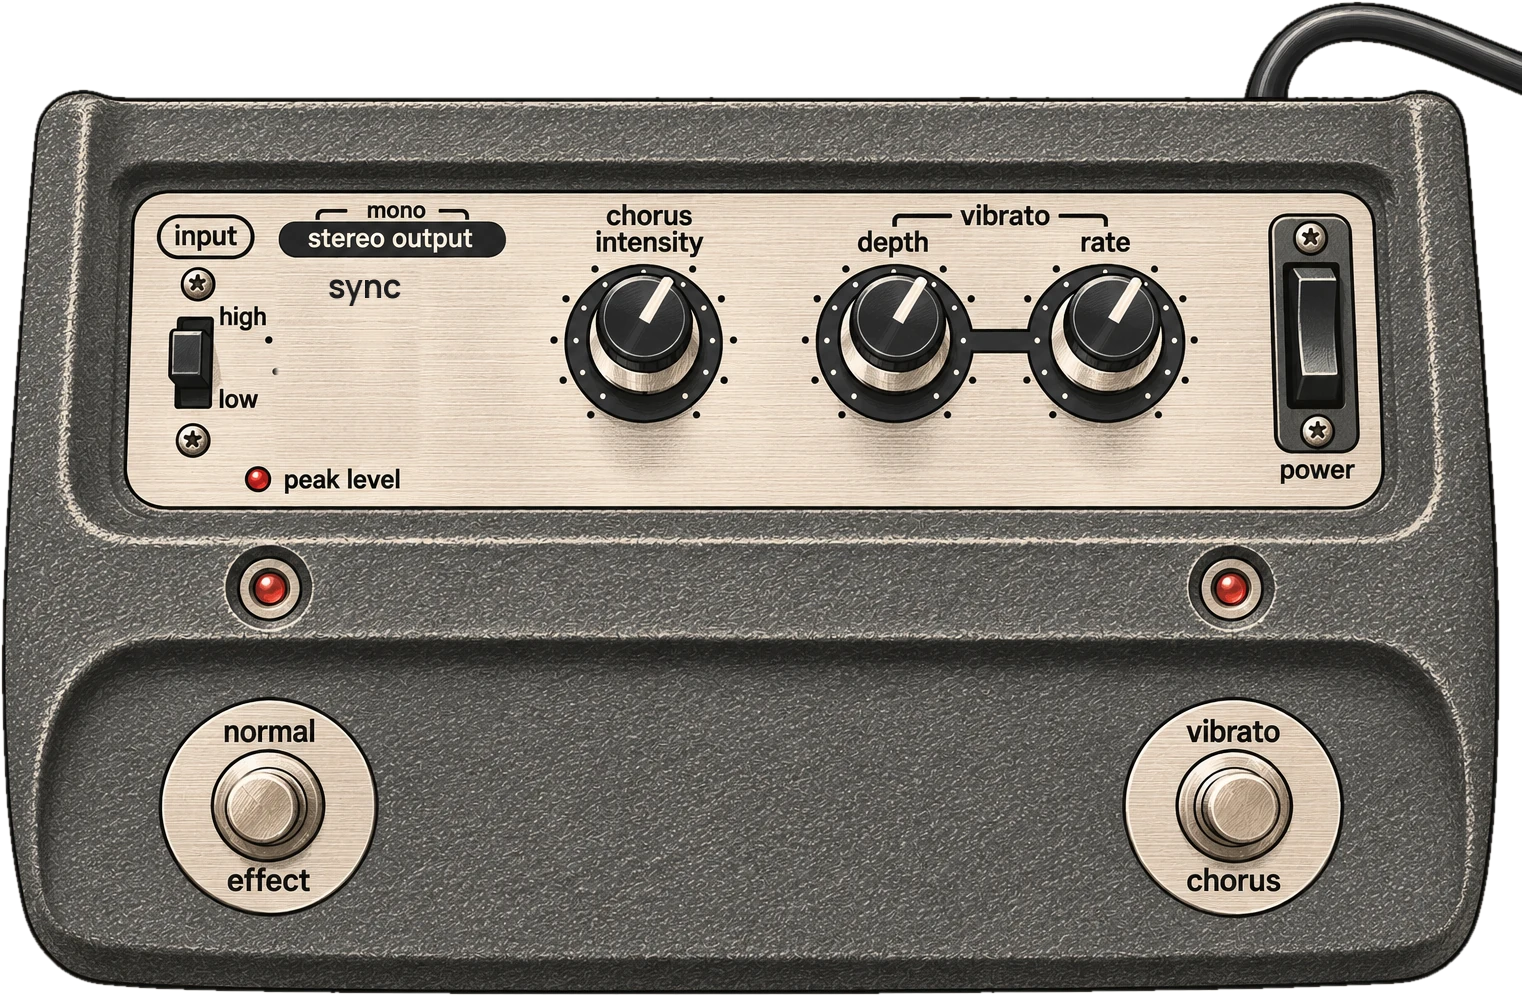
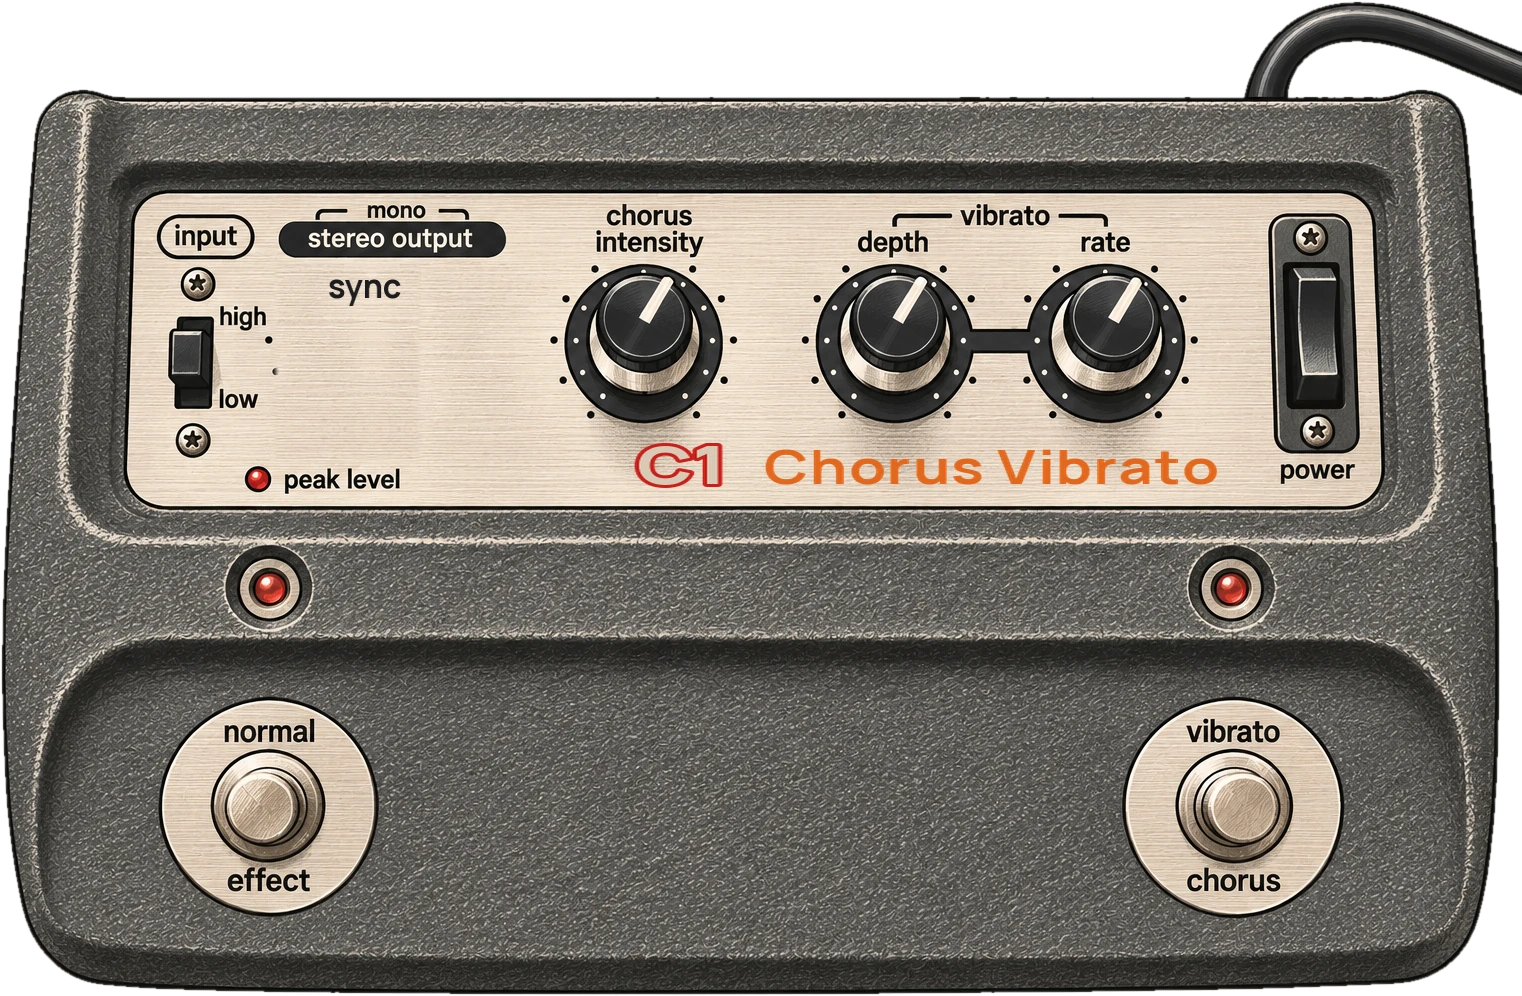
Letter the rack's names on four effect looks
BBD Delay, Gray Compressor, C1 Chorus/Vibrato and Roto Speaker had no
name on their picture. Each now carries the rack's model name in the
manner of the original's lettering, not a copy of it: a broad red name
leaning along the black field's edge, a heavy brand word with the type
name under it, red outlined capitals with the rest in orange under the
knobs, and brass script on the wood.

Changed region(s): [[0.4014, 0.4357, 0.8029, 0.498]]

diff --git a/editor/src/js/device-renders.js b/editor/src/js/device-renders.js
@@ -1064,6 +1064,7 @@ window.DEVICE_RENDERS = {
     47
    ]
   },
+  "dials": {},
   "height": 419,
   "img": {
    "height": 419,
@@ -1100,7 +1101,9 @@ window.DEVICE_RENDERS = {
     248.5
    ]
   },
+  "sliders": {},
   "spin": 30,
+  "sprites": [],
   "switch": [
    113.1,
    336.8,

diff --git a/editor/tools/render-devices/prepare_image.py b/editor/tools/render-devices/prepare_image.py
@@ -85,6 +85,46 @@ def label(im, text, centre, size, fill='#eadcb6', squeeze=0.78, weight='ExtraBol
     im.alpha_composite(t_im, (round(centre[0] - t_im.width / 2), round(centre[1] - t_im.height / 2)))
 
 
+def text_layer(text, size, fill, weight='ExtraBold', squeeze=1.0, slant=0.0, tracking=0):
+    # a line of Manrope on its own transparent layer: condensed by `squeeze`,
+    # leaned forward by `slant` (shear, as a fraction of its height), its
+    # letters spaced `tracking` px apart
+    f = ImageFont.truetype(os.path.join(HERE, '..', '..', 'src', 'fonts', 'Manrope.ttf'), size)
+    f.set_variation_by_name(weight)
+    widths = [f.getlength(c) + tracking for c in text]
+    l, t, r, b = f.getbbox(text)
+    pad = round(abs(slant) * (b - t)) + 8
+    t_im = Image.new('RGBA', (round(sum(widths)) + pad * 2, b - t + 8), (0, 0, 0, 0))
+    d, x = ImageDraw.Draw(t_im), pad
+    for c, w in zip(text, widths):
+        d.text((x, 4 - t), c, font=f, fill=fill)
+        x += w
+    if slant:
+        t_im = t_im.transform(t_im.size, Image.AFFINE, (1, slant, -slant * t_im.height, 0, 1, 0), Image.BICUBIC)
+    return t_im.resize((round(t_im.width * squeeze), t_im.height), Image.LANCZOS)
+
+
+def place(im, layer, centre, angle=0.0, shadow=0):
+    # composite a layer centred on `centre`, turned `angle` degrees (counter-clockwise),
+    # with a soft drop shadow if asked
+    if angle:
+        layer = layer.rotate(angle, resample=Image.BICUBIC, expand=True)
+    x, y = round(centre[0] - layer.width / 2), round(centre[1] - layer.height / 2)
+    if shadow:
+        sh = Image.new('RGBA', layer.size, (0, 0, 0, 0))
+        sh.putalpha(layer.getchannel('A').point(lambda a: a * 0.6).filter(ImageFilter.GaussianBlur(shadow)))
+        im.alpha_composite(sh, (x + shadow, y + shadow))
+    im.alpha_composite(layer, (x, y))
+
+
+def fit_label(im, text, centre, size, width, fill, weight='ExtraBold', squeeze=0.86):
+    # label(), squeezed further if need be so it is no wider than `width`
+    f = ImageFont.truetype(os.path.join(HERE, '..', '..', 'src', 'fonts', 'Manrope.ttf'), size)
+    f.set_variation_by_name(weight)
+    l, t, r, b = f.getbbox(text)
+    label(im, text, centre, size, fill=fill, squeeze=min(squeeze, width / (r - l + 8)), weight=weight)
+
+
 def dial(im, centre, r, fill='#eadcb6', numbers=True, width=2, long=10, short=7):
     # a printed 0-10 scale round a knob: ticks, and the even numbers
     d = ImageDraw.Draw(im)
@@ -419,6 +459,20 @@ def ce1(src, out):
     # no level knob on the rack: the level control becomes the sync picker
     patch_tiled(im, (448, 300, 548, 470), (286, 266, 436, 471), feather=4)
     label(im, 'sync', (378, 300), 34, fill='#1c1c1e', squeeze=0.95, weight='Bold')
+    # the rack's name in the tray between the footswitches
+    # on the panel under the knobs, where the original has its name: the
+    # model in broad red outlined capitals, the rest in broad orange
+    cream = im.getpixel((900, 470))[:3]
+    f = ImageFont.truetype(os.path.join(HERE, '..', '..', 'src', 'fonts', 'Manrope.ttf'), 52)
+    f.set_variation_by_name('ExtraBold')
+    l, t, r, b = f.getbbox('C1', stroke_width=3)
+    c1 = Image.new('RGBA', (r - l + 8, b - t + 8), (0, 0, 0, 0))
+    ImageDraw.Draw(c1).text((4 - l, 4 - t), 'C1', font=f, fill=cream, stroke_width=3, stroke_fill='#c8201a')
+    c1 = c1.resize((round(c1.width * 1.45), c1.height), Image.LANCZOS)
+    rest = text_layer('Chorus Vibrato', 46, '#e2681e', weight='Bold', squeeze=1.3, tracking=1)
+    x0, y = 640, 472
+    place(im, c1, (x0 + c1.width / 2, y))
+    place(im, rest, (x0 + c1.width + 18 + rest.width / 2, y + 2))
     # the caps turn, their chrome skirts and printed dots stay
     knobs = {'02': (656, 324), '03': (910, 324), '04': (1120, 328)}
     return dict(im=im, knobs=knobs, r=46, switch=(283, 808, 56), led=(283, 598), sat_max=0.3, lum_min=180,
@@ -568,6 +622,9 @@ def roto(src, out):
     for (x, y), wood in (((1218, 583), (1120, 553, 1180, 613)), ((835, 648), (740, 616, 796, 680))):
         patch_tiled(im, wood, (x - 34, y - 32, x + 34, y + 32), feather=8, oval=True)
         im.paste(dark, (x - 17, y - 17), m)
+    # the rack's name on the wood under the footswitch, in the legends' cream
+    # in brass script, like a speaker cabinet's name badge
+    script_logo(im, 'Roto Speaker', (835, 838), 78, fill='#e2bd72', edge='#3a1a08')
     # the reddish wood on cream paper: cut out by its outline (with the jacks
     # and feet, where they are not paper-coloured)
     shape = Image.new('L', im.size, 0)
@@ -699,6 +756,10 @@ def memory_man(src, out):
         lamp(im, (x, y), r=11)
         label(im, text, (x, y + 42), 26, fill=paper, squeeze=0.8)
     label(im, 'SYNC', (515, 755), 26, fill=paper, squeeze=0.8)
+    # the rack's name in the black field, in the legends' red
+    # leaning along the black field's edge, under the subtitle, like the
+    # original's name
+    place(im, text_layer('BBD Delay', 108, '#b3121a', weight='ExtraBold', squeeze=0.9, slant=0.12), (370, 462), angle=-31)
     shape = Image.new('L', im.size, 0)
     ImageDraw.Draw(shape).rounded_rectangle((49, 52, 1476, 982), radius=30, fill=255)
     px = im.convert('RGB').load()
@@ -724,6 +785,11 @@ def gray_comp(src, out):
     pieces = {k: cut_knob(im, c, 158).rotate(a, resample=Image.BICUBIC) for k, c, a in (('02', (430, 312), -36), ('03', (820, 312), 71))}
     # no LED in the drawing: a small one over the footswitch
     lamp(im, (628, 800), r=12)
+    # the rack's name in place of the maker's: plain grey from above it
+    # a broad heavy brand word with the type name small under it
+    patch_tiled(im, (262, 1022, 520, 1072), (240, 1074, 1016, 1170), feather=8)
+    place(im, text_layer('GRAY', 100, '#101010', weight='ExtraBold', squeeze=1.2, tracking=6), (628, 1102))
+    place(im, text_layer('COMPRESSOR', 30, '#101010', weight='Bold', tracking=14), (628, 1160))
     shape = Image.new('L', im.size, 0)
     ImageDraw.Draw(shape).rounded_rectangle((205, 80, 1047, 1190), radius=40, fill=255)
     px = im.convert('RGB').load()
